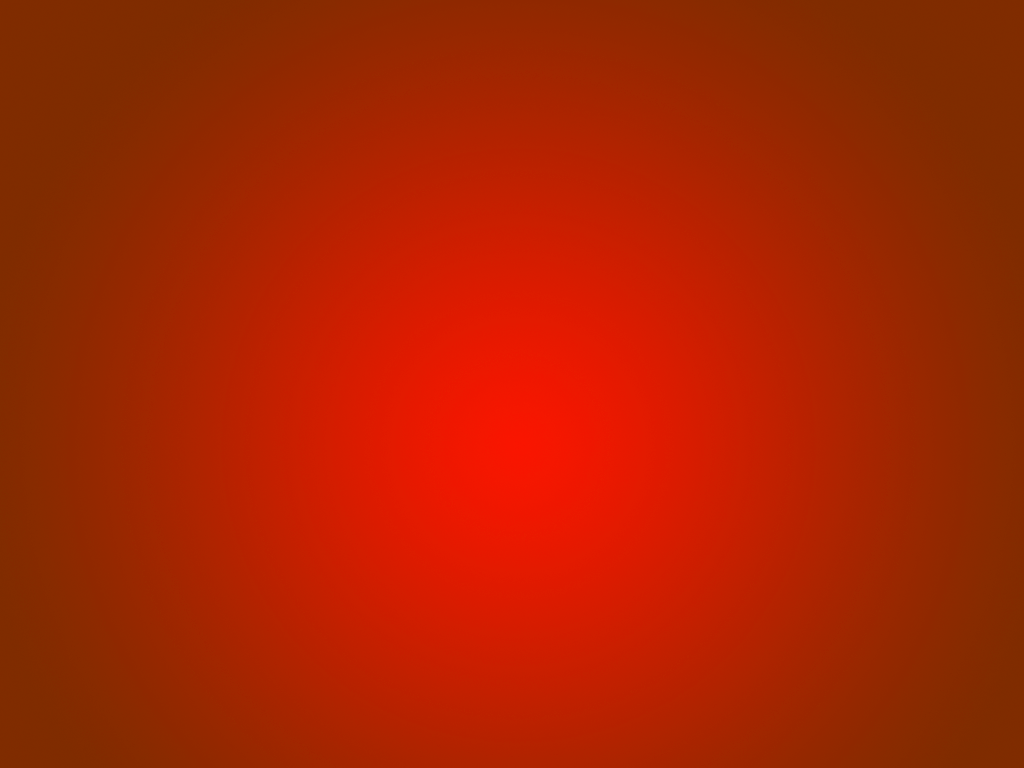
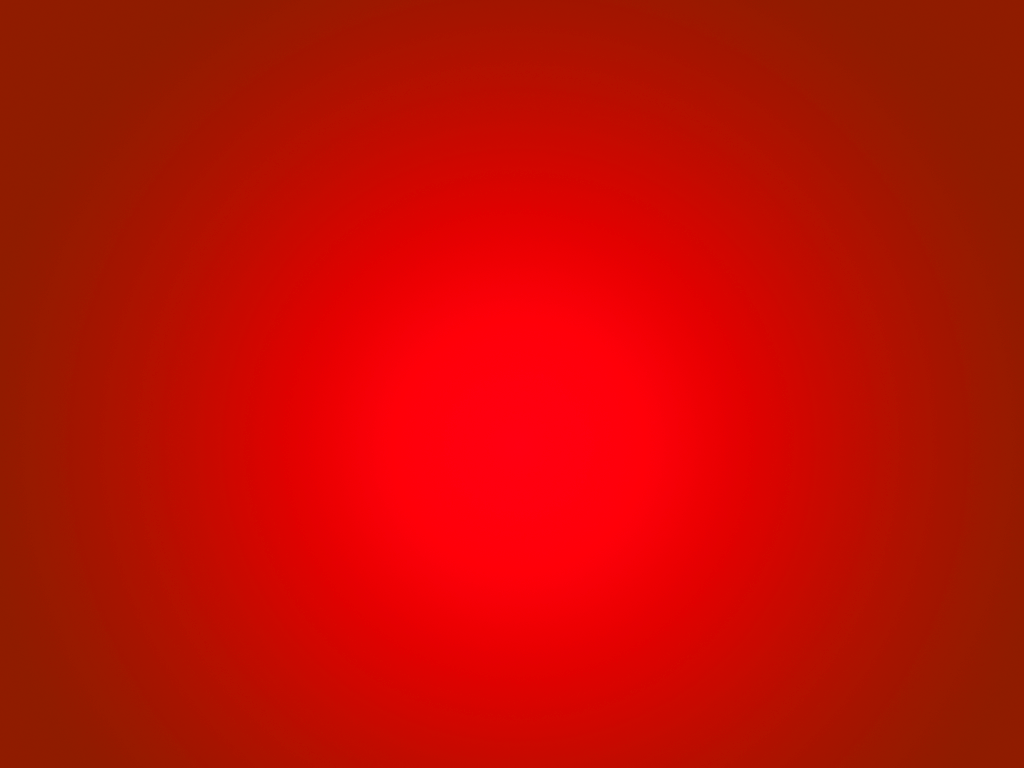
- Sexied up some of the graphics - Fine-tuned position of title graphics - Add tapstart event listener AFTER message starts flashing - Bubble burst FX, burst under finger etc. - Bunch of other shit ... time to commit and get outta here!

diff --git a/index.html b/index.html
@@ -7,7 +7,7 @@
 <script src="tween.js"></script>
 
 <script>
-var C_TAPEVENT				= 'touchstart' // 'touchstart' or 'click' for iPad or Desktop...
+var C_TAPEVENT				= 'click' // 'touchstart' or 'click' for iPad or Desktop...
 // #SEC_JSHEAD
 var C_TTICK_INT   			= 333 ;		// Tween ticker interval (msec)
 var C_SEGS 					= 6 ;		// Intrinsic to FOL design. This will ALWAYS be 6...
@@ -21,10 +21,12 @@ var C_MWIDTH 				= 1024 ;	// Mandala base size (starts here, scales up)
 var C_MHEIGHT 				= 768 ;
 
 var C_MSCALE_MAX 			= 0.15 ;	// Scale mandala UP by this factor before fading out
-																	// EG 0.3 = 30% means 800px will scale to 800 + (30% * 800)
+										// EG 0.3 = 30% means 800px will scale to 800 + (30% * 800)
 													
 var C_MOPAC_MIN				= 0.0 ;		// Min/Max opacities of mandalas as they grow
-var C_MOPAC_MAX				= 0.15 ;
+//var C_MOPAC_MAX				= 0.15 ;
+
+var C_MOPAC_MAX 			= [0.10,0.15,0.25,0.10,0.05,0.10,0.20] ;
 
 var C_MSCALE_DUR			= 12000 ;	// Duration of life and death cycle (total cycle is 2x)
 var C_MSPAWN_INT  			= 6000 ;	// Interval on which new mandalas are spawned
@@ -35,8 +37,24 @@ var C_BUB_LSPAN_MIN			= 4000 ; 	// Min lifespan of a bubble (msec)
 var C_BUB_LSPAN_MAX			= 8000 ;	// Max lifespan
 var C_BUB_RADIUS_MIN		= 30 ;		// Min radius of bubble (pixels)
 var C_BUB_RADIUS_MAX		= 70 ;		// Max radius
-var C_BUB_OPAC_MIN			= 0.15 ;	// Min opacity of bubble (0 - 1.0, css opacity)
-var C_BUB_OPAC_MAX			= 0.30 ;	// Max opacity
+//var C_BUB_OPAC_MIN			= 0.15 ;	// Min opacity of bubble (0 - 1.0, css opacity)
+//var C_BUB_OPAC_MAX			= 0.30 ;	// Max opacity
+
+var C_BUBDX_MIN				= -1 ;		// "Bubble Dynamics" ... roughly put
+var C_BUBDX_MAX				= 1 ;
+
+var C_BUBDY_MIN				= -1 ;
+var C_BUBDY_MAX				= 1 ;
+
+var C_BUBDWS_MIN			= 80 ;		// These get divided by 100 to produce an actual scale value
+var C_BUBDWS_MAX			= 120 ;		// Between 0.8 and 1.2
+
+var C_BUBDHS_MIN			= -1 ;
+var C_BUBDHS_MAX			= 1 ;
+
+var C_BUB_OPAC 				= [0.20,0.20,0.20,0.15,0.10,0.10,0.20] ;
+
+var C_BUB_FADEIN			= 3000 ;	// ms for a bubble to fade into existence
 var C_BUB_EDGEPAD			= 10 ;		// Padding for bubble region (from screen edges)
 var C_BUB_EXPRATE			= 1 ;		// Expansion rate of bubble's radius (pixels per tick)
 
@@ -54,6 +72,8 @@ var C_BUB_GEOM				= [ [99], 	// Which polygons for each colour.Starting @ RED
 var C_BUB_CRAT				= 0.16; 	// Corner radius of polygon bubbles, ratio of radius
 
 var C_UBR_INT				= 500 ;		// ms between calls of updateBubReg()
+var C_UBD_INT				= 2000 ;    // ms between calls of updateBubDyn()
+
 var C_USR_INT				= 250 ;   	// ms between calls of updateShardReg()
 var C_SBB_INT				= 1000 ;	// ms between calls to spawnBubble()
 var C_SRGC_MAX				= 10 ;		// After this many calls to updateShardReg(), GC is triggered
@@ -85,7 +105,8 @@ var _ITWN ; // tween ticker
 var _ITTS ; // tap to start flasher
 var _IBSP ; // bubble spawner
 var _ISWC ; // swap colour
-var _IUBR ; // updateBubbleReg
+var _IUBR ; // updateBubReg
+var _IUBD ; // updateBubDyn
 var _ICDN ; // coundown sequence at beginning
 var _IMSP ; // mandala spawn interval
 
@@ -171,7 +192,7 @@ var _IMEDIA ;			// Interval calling _MEDIA.play() ...
 	
 	<div id="dlog-start">
 		<img 	src="img/lettr-popbubs.gif"
-				 	style="position: absolute; left:66px; top:130px; opacity: 0.66" />
+				 	style="position: absolute; left:94px; top:130px; opacity: 0.66" />
 					
 		<img 	src="img/lettr-ready.gif" id="lettr-ready"
 					style="position: absolute; left:196px; top:205px; opacity: 0" />
@@ -273,11 +294,11 @@ html,body{
 #title-lettr-title{
 	position: absolute ;
 	z-index: 620 ;
-	width: 341px ;
-	height: 93px ;
-	left: 322px ;
+	width: 356px ;
+	height: 110px ;
+	left: 334px ;
 	top: 300px ;
-	background: url('img/lettr-title.gif') ;
+	background: url('img/lettr-title.png') ;
 }
 
 #title-lettr-tapstart{
@@ -454,7 +475,7 @@ function mGrowCycle(cnv)
   	var eas = TWEEN.Easing.Quartic.Out ;
   
 	new TWEEN.Tween( twn )
-      .to( { s:C_MSCALE_MAX, o:C_MOPAC_MAX }, C_MSCALE_DUR )
+      .to( { s:C_MSCALE_MAX, o:C_MOPAC_MAX[_bgIdx] }, C_MSCALE_DUR )
       .easing( eas )
       .onComplete(function(){
       		mDeathCycle(cnv) ;
@@ -467,8 +488,8 @@ function mGrowCycle(cnv)
 
 function mDeathCycle(cnv)
 {
-	var twn = { s: C_MSCALE_MAX, o: C_MOPAC_MAX } ;
-  var eas = TWEEN.Easing.Quartic.Out ;
+	var twn = { s: C_MSCALE_MAX, o: C_MOPAC_MAX[_bgIdx] } ;
+  	var eas = TWEEN.Easing.Quartic.Out ;
   
 	new TWEEN.Tween( twn )
       .to( { s: 2 * C_MSCALE_MAX, o:0 }, C_MSCALE_DUR )
@@ -584,14 +605,22 @@ function spawnBubble()
 	
 	var r = randomInt(C_BUB_RADIUS_MIN, C_BUB_RADIUS_MAX) ;
 	var l = randomInt(C_BUB_LSPAN_MIN, C_BUB_LSPAN_MAX) ;
-	var o = randomInt(C_BUB_OPAC_MIN * 100, C_BUB_OPAC_MAX * 100) / 100 ;
-	
+	//var o = randomInt(C_BUB_OPAC_MIN * 100, C_BUB_OPAC_MAX * 100) / 100 ;
+	var o = C_BUB_OPAC[_bgIdx] ;
+
 	// Position bubble so its edges always remain within padding
 	var x = randomInt(C_BUB_EDGEPAD + 2 * r, _SCRWID - C_BUB_EDGEPAD - 2 * r) ;
 	var y = randomInt(C_BUB_EDGEPAD + 2 * r, _SCRHGT - C_BUB_EDGEPAD - 2 * r) ;
+
+	// Start out perfectly round (CSS transform: scale(1,1))
+	var ws = 1 ;
+	var hs = 1 ;
 	
-	var dx = randomInt(-1,1) ;
-	var dy = randomInt(-1,1) ;
+	var dx = randomInt(C_BUBDX_MIN,C_BUBDX_MAX) ;
+	var dy = randomInt(C_BUBDY_MIN,C_BUBDY_MAX) ;
+
+	var dws = randomInt(C_BUBDWS_MIN,C_BUBDWS_MAX) / 1000 ;
+	var dhs = randomInt(C_BUBDHS_MIN,C_BUBDHS_MAX) / 1000 ;
 
 	// Look up valid geometries for colour we're on, randomly select one
 	var geom = C_BUB_GEOM[_bgIdx] ;
@@ -602,6 +631,7 @@ function spawnBubble()
 	// Create canvas, draw on it
 	cnvDom = drawBubbleCnv(r,sides);
 	
+	// TODO: see about blanket listener on parent element, would it decrease latency?
 	// Attach event handler on <canvas> object
 	cnvDom.addEventListener(C_TAPEVENT, bubClick, false);
 	
@@ -615,22 +645,59 @@ function spawnBubble()
 	cnvDom.id = _BUB_TOTAL ;
 	
 	// Add to bubble registry, increment total bubble count
-	_BUBREG.push({'ser':_BUB_TOTAL,'cnv':cnvDom,'lspan':l,'o':o,'r':r,'x':x,'y':y,'dx':dx,'dy':dy}) ;
+	_BUBREG.push({	'ser':_BUB_TOTAL,
+					'cnv':cnvDom,
+					'lspan':l,
+					'o':o,'r':r,'x':x,'y':y,'ws':ws,'hs':hs,
+					'dx':dx,'dy':dy,
+					'dws':dws,'dhs':dhs}) ;
 	
 	_BUB_TOTAL++ ;
 
 	// Finally ... append into parent container and start fade ...
  	document.getElementById('bubble-container').appendChild(cnvDom) ;
- 	fadeElementIn(cnvDom,2000,function(){},o) ;
+ 	fadeElementIn(cnvDom,C_BUB_FADEIN,function(){},o) ;
+}
+
+// Called on an interval 1/4~ish of bubble's lifespan
+// changes direction, height/width scaling
+// applies to random bubbles in bubble registry
+function updateBubDyn()
+{
+	console.log('UBD called...') ;
+	var p = 0.2 ;
+	var t ;
+
+	for(var i = 0; i < _BUBREG.length; i++)
+	{
+		t = Math.random() ;
+		if(t > p) continue ;
+
+		_BUBREG[i].dx = randomInt(C_BUBDX_MIN,C_BUBDX_MAX) ;
+		_BUBREG[i].dy = randomInt(C_BUBDY_MIN,C_BUBDY_MAX) ;
+
+		_BUBREG[i].dws = randomInt(C_BUBDWS_MIN,C_BUBDWS_MAX) / 1000 ;
+		_BUBREG[i].dhs = randomInt(C_BUBDHS_MIN,C_BUBDHS_MAX) / 1000 ;
+	}
 }
 
 function updateBubReg()
 {
+	var burstX ;
+	var burstY ;
+
 	for(var i = 0; i < _BUBREG.length; i++)
 	{
 		if(_BUBREG[i].lspan <= 0)
 		{
-			popBub(i) ;
+			burstX = _BUBREG[i].x + _BUBREG[i].r ;
+			burstY = _BUBREG[i].y + _BUBREG[i].r ;
+
+			// TODO: make these constants ...
+			burstX -= randomInt(0,5) ;
+			burstY -= randomInt(0,5) ;
+
+			popBub(i, burstX, burstY) ;
 			continue ;
 		}
 		
@@ -638,24 +705,35 @@ function updateBubReg()
 		_BUBREG[i].x = _BUBREG[i].x + _BUBREG[i].dx ;
 		_BUBREG[i].y = _BUBREG[i].y + _BUBREG[i].dy ;
 
-		_BUBREG[i].cnv.style.left 	= _BUBREG[i].x + 'px' ;
+		// Update bubble's width/height scale
+		_BUBREG[i].ws = _BUBREG[i].ws + _BUBREG[i].dws ;
+		_BUBREG[i].hs = _BUBREG[i].hs + _BUBREG[i].dhs ;
+
+		// Apply transformation
+		_BUBREG[i].cnv.style.left 		= _BUBREG[i].x + 'px' ;
 		_BUBREG[i].cnv.style.top 		= _BUBREG[i].y + 'px' ;
+		
+		//_BUBREG[i].cnv.style.webkitTransform = 'scale(' + _BUBREG[i].ws + ',' + _BUBREG[i].hs + ')' ; 
+
+		//_BUBREG[i].cnv.style.width 		= _BUBREG[i].w + 'px' ;
+		//_BUBREG[i].cnv.style.height 	= _BUBREG[i].h + 'px' ;
 		
 		// Decrement lifecycle counter
 		_BUBREG[i].lspan = _BUBREG[i].lspan - C_UBR_INT ;
 	}
 }
 
-function popBub(i)
+// x,y coordinates for center of explosion
+function popBub(i,x,y)
 {
 	var cnv ;
-	var x,y ;
+	//var x,y ;
 
 	// Scaling factor (px) applied just before disappearing
 	var wFac, hFac ;
 	
-	x = _BUBREG[i].x + _BUBREG[i].r ;
-	y = _BUBREG[i].y + _BUBREG[i].r ;
+	//x = _BUBREG[i].x + _BUBREG[i].r ;
+	//y = _BUBREG[i].y + _BUBREG[i].r ;
 	
 	// Calculate 'pre-burst expansion' values (size expands by this many pixels)
 	wFac = Math.floor(2 * _BUBREG[i].r * C_BUB_PBEXP) ;
@@ -895,7 +973,7 @@ function bubClick(e)
 		if(_BUBREG[i].ser == ser) break ;
 	}
 	
-	popBub(i) ;
+	popBub(i,e.pageX,e.pageY) ;
 	
 	_BUB_HIT++ ;
 }
@@ -1071,7 +1149,7 @@ function titleSequence1()
 	//window.location.href = 'audio.html' ;
 	//return 0 ;
 
-	_I2 = window.setInterval('tweenTicker()',C_TTICK_INT) ;
+	_ITWN = window.setInterval('tweenTicker()',C_TTICK_INT) ;
 	window.setTimeout('titleSequence2()',2000) ;
 
 	// _MEDIA = new Media('snd/tone.ogg',
@@ -1098,12 +1176,12 @@ function titleSequence1()
 function titleSequence2()
 {
 	var el = document.getElementById('thebody') ;
-	el.addEventListener(C_TAPEVENT,launchSequence1,false) ;
 
 	fadeElementOut(document.getElementById('title-bg-black'),2000,function(){
 		// Once fadeout is done, make 'tap to start' region active
 		// and start flashing 'tap to start' lettering
 		_ITTS = window.setInterval('ttsToggle()',1000) ;
+		el.addEventListener(C_TAPEVENT,launchSequence1,false) ;
 	}) ;
 }
 
@@ -1199,10 +1277,10 @@ function launchSequence6()
     // _SND_BURST[0] = new Audio('snd/explode1.aiff') ;
     
     // Fire up tickers needed for game ...
-    _I3 = window.setInterval('nextBg()',60000) ;
-    _I4 = window.setInterval('spawnBubble()',C_SBB_INT) ;
-	_I5 = window.setInterval('updateBubReg()',C_UBR_INT) ;
-	//_I6 = window.setInterval('updateShardReg()',C_USR_INT) ;
+    _ISWC = window.setInterval('nextBg()',60000) ;
+    _IBSP = window.setInterval('spawnBubble()',C_SBB_INT) ;
+	_IUBR = window.setInterval('updateBubReg()',C_UBR_INT) ;
+	_IUBD = window.setInterval('updateBubDyn()',C_UBD_INT) ;
 	
 	// Play tone loop
 	//_MEDIA.play() ;
@@ -1225,7 +1303,7 @@ function endSequence1()
 	var score = Math.round((_BUB_HIT / _BUB_TOTAL) * 100) ;
 	
 	// First step, render _BUBTOTAL, _BUBHIT and score ...
-  renderDigits('total-dig',_BUB_TOTAL) ;
+  	renderDigits('total-dig',_BUB_TOTAL) ;
 	renderDigits('popped-dig',_BUB_HIT) ;
 	renderDigitsRight('score-dig',score) ;
 		
